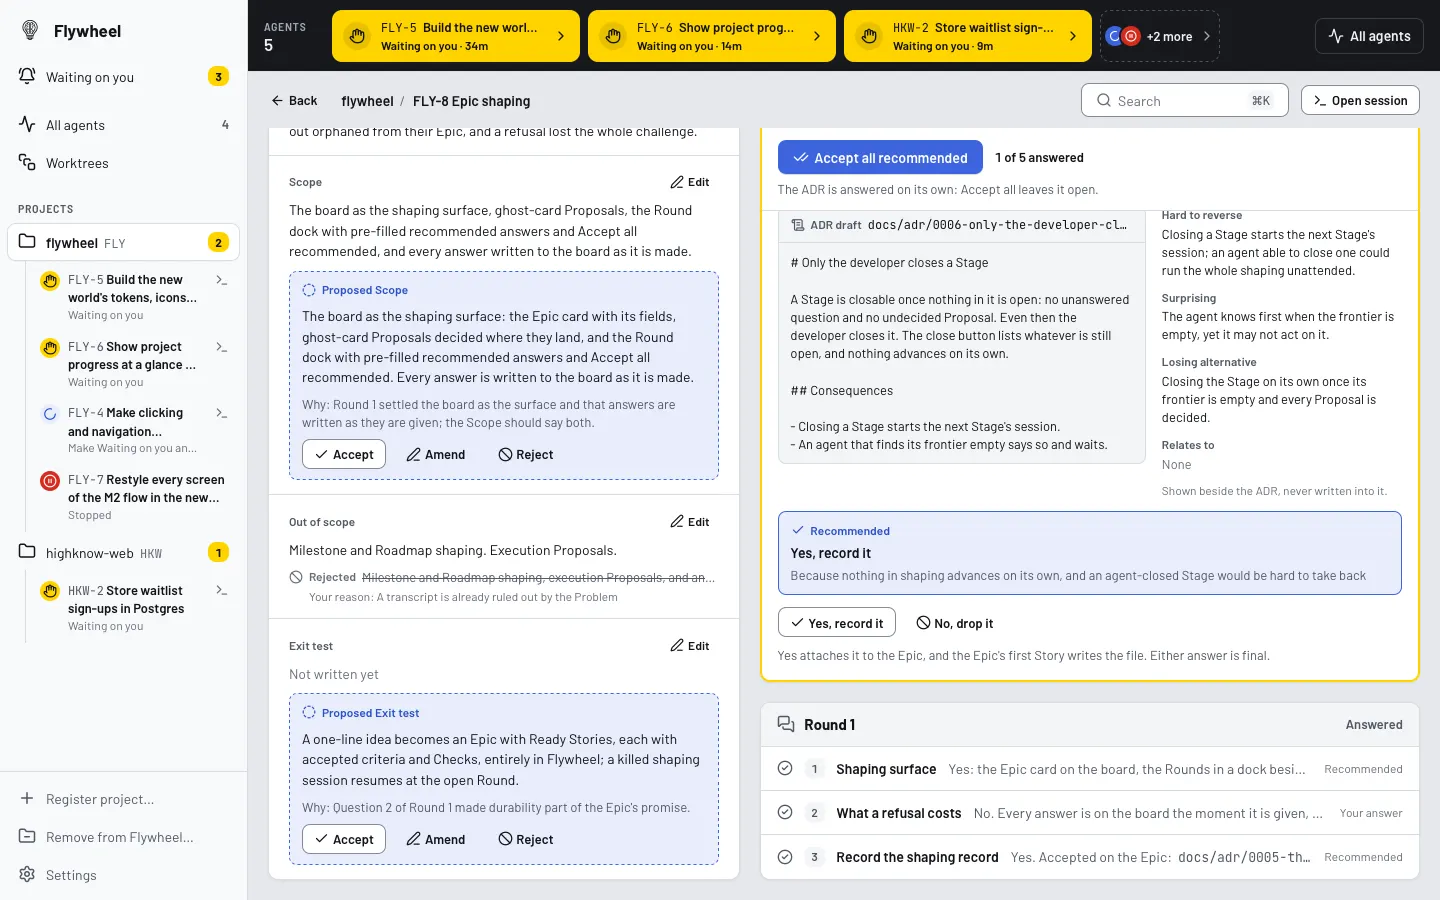
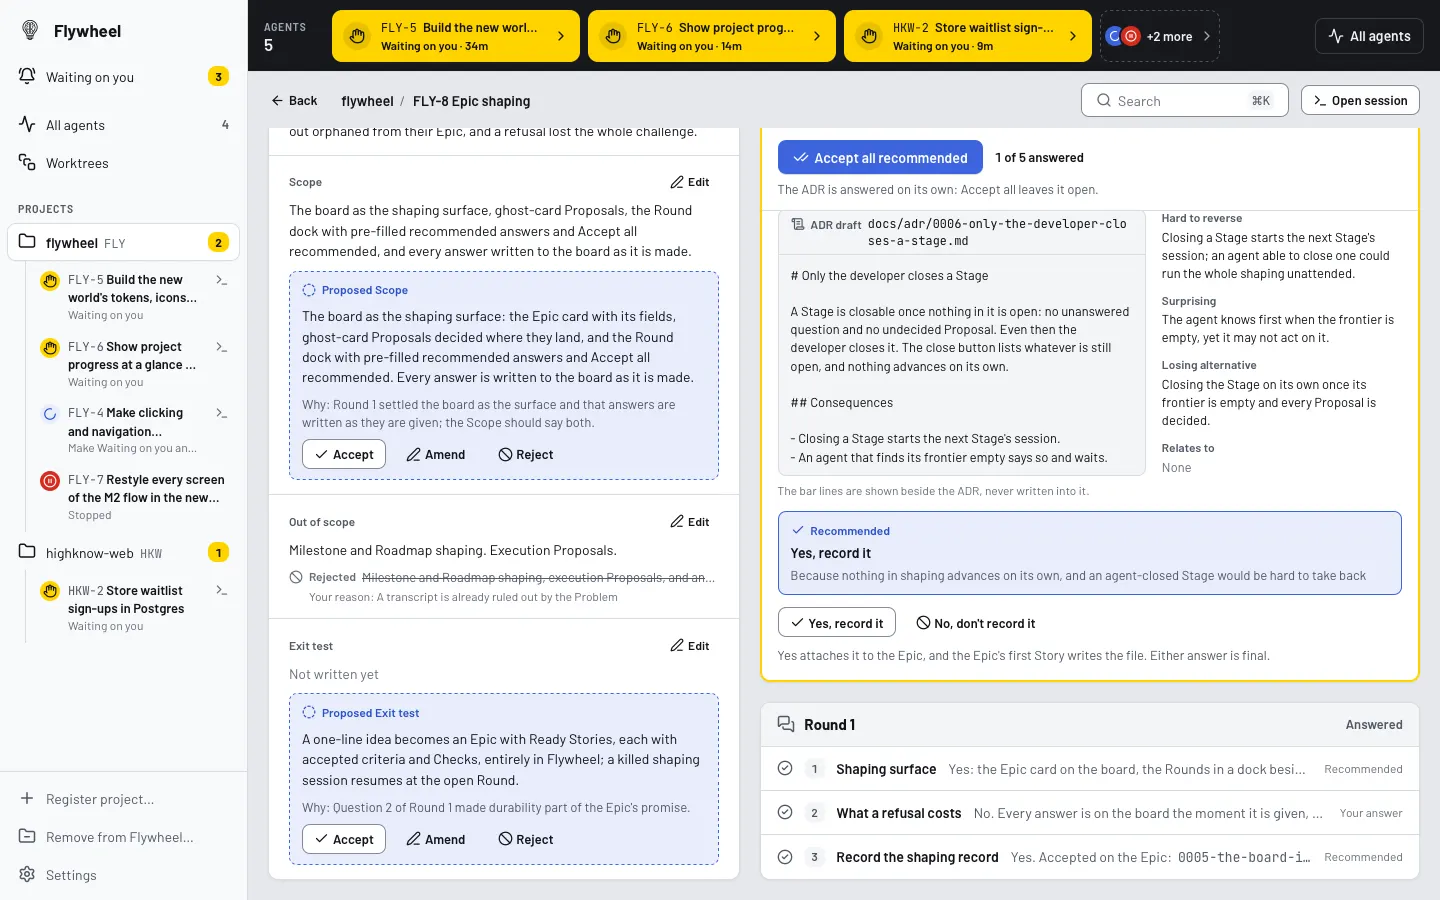
fix: the finish review's findings on the ADR card: No is "don't record it", never Drop; focus lands on the folded line; button names match their words; the draft is a named region; paths wrap; chips at meta size; Accept all says when only ADRs are left

diff --git a/packages/desktop/src/shaping/QuestionCard.tsx b/packages/desktop/src/shaping/QuestionCard.tsx
@@ -15,7 +15,7 @@
  * An ADR question (issue #129) is its own variant, `AdrQuestionCard`: the draft with its bar lines beside
  * it, answered Yes or No, and final once answered.
  */
-import { useId, useState, type FormEvent, type KeyboardEvent } from "react";
+import { useEffect, useId, useRef, useState, type FormEvent, type KeyboardEvent } from "react";
 import { Ban, Check, CircleCheck, FileText, PenLine, ScrollText, Send, X } from "lucide-react";
 import type { AdrDraftDto, RoundQuestionDto } from "../adapters/tauri";
 import { Button } from "@/components/ui/button";
@@ -253,8 +253,19 @@ const BAR_LINES: { key: keyof Pick<AdrDraftDto, "hardToReverse" | "surprising" |
  */
 function AdrQuestionCard({ question: q, open, onAnswer, adr }: QuestionCardProps & { adr: AdrDraftDto }) {
   const draftId = useId();
+  const questionId = useId();
   const [busy, setBusy] = useState<"Yes" | "No" | null>(null);
   const [error, setError] = useState<string | null>(null);
+  // Answering unmounts both buttons and the folded line holds no control, so the focus moves to that line
+  // rather than falling to the page.
+  const folded = useRef<HTMLDivElement>(null);
+  const [focusFolded, setFocusFolded] = useState(false);
+  useEffect(() => {
+    if (focusFolded && q.answer !== null) {
+      folded.current?.focus();
+      setFocusFolded(false);
+    }
+  }, [focusFolded, q.answer]);
   const label = `Question ${q.number}: ${q.title}`;
   const recommendsYes = q.recommendedAnswer.trim().toLowerCase().startsWith("yes");
 
@@ -264,6 +275,7 @@ function AdrQuestionCard({ question: q, open, onAnswer, adr }: QuestionCardProps
     setError(null);
     try {
       await onAnswer(q.id, word);
+      setFocusFolded(true);
     } catch (err) {
       setError(`Could not save your answer: ${reason(err)}`);
     } finally {
@@ -275,23 +287,30 @@ function AdrQuestionCard({ question: q, open, onAnswer, adr }: QuestionCardProps
     const yes = q.answer.trim().toLowerCase().startsWith("yes");
     return (
       <div
+        ref={folded}
+        tabIndex={-1}
         role="group"
         aria-label={label}
         data-answered="true"
         data-kind="adr"
-        className="flex min-h-11 min-w-0 items-center gap-3 border-b border-border px-4 py-2 last:border-b-0"
+        className="flex min-h-11 min-w-0 items-center gap-3 border-b border-border px-4 py-2 last:border-b-0 focus-visible:outline-2 focus-visible:-outline-offset-2 focus-visible:outline-ring"
       >
         <CircleCheck aria-hidden="true" className="size-4 shrink-0 text-muted-foreground" />
         <NumberChip number={q.number} answered />
         <span className="max-w-[40%] shrink-0 truncate text-body font-semibold" title={q.title}>
           {q.title}
         </span>
-        <span className="flex min-w-0 flex-1 items-baseline gap-1.5 text-body text-muted-foreground">
-          <span className="shrink-0">{yes ? "Yes. Accepted on the Epic:" : "No. Dropped:"}</span>
-          <span className="min-w-0 truncate font-mono text-small" title={adr.path}>
-            {yes ? adr.path : "no ADR is written"}
+        {yes ? (
+          <span className="flex min-w-0 flex-1 items-baseline gap-1.5 text-body text-muted-foreground">
+            <span className="shrink-0">Yes. Accepted on the Epic:</span>
+            <span className="min-w-0 truncate font-mono text-small" title={adr.path}>
+              <span className="sr-only">{adr.path.slice(0, adr.path.length - fileName(adr.path).length)}</span>
+              {fileName(adr.path)}
+            </span>
           </span>
-        </span>
+        ) : (
+          <span className="min-w-0 flex-1 truncate text-body text-muted-foreground">No. Not recorded: no ADR is written</span>
+        )}
         <span className="shrink-0 text-meta text-subtle-foreground">
           {q.answeredWith === "own" ? "Your answer" : "Recommended"}
         </span>
@@ -307,10 +326,10 @@ function AdrQuestionCard({ question: q, open, onAnswer, adr }: QuestionCardProps
         size="sm"
         disabled={!open || busy !== null}
         onClick={() => void answer(word)}
-        aria-label={word === "Yes" ? `Yes: record the ADR in question ${q.number}` : `No: drop the ADR in question ${q.number}`}
+        aria-describedby={questionId}
       >
         {word === "Yes" ? <Check aria-hidden="true" /> : <Ban aria-hidden="true" />}
-        {busy === word ? "Saving…" : word === "Yes" ? "Yes, record it" : "No, drop it"}
+        {busy === word ? "Saving…" : word === "Yes" ? "Yes, record it" : "No, don't record it"}
       </Button>
     );
   };
@@ -328,7 +347,9 @@ function AdrQuestionCard({ question: q, open, onAnswer, adr }: QuestionCardProps
           <span className="mt-px flex">
             <NumberChip number={q.number} answered={false} />
           </span>
-          <span className="min-w-0 break-words">{q.question}</span>
+          <span id={questionId} className="min-w-0 break-words">
+            {q.question}
+          </span>
         </p>
         <p className="m-0 flex items-start gap-1.5 pl-7 text-small text-subtle-foreground">
           <FileText aria-hidden="true" className="mt-0.5 size-3.5 shrink-0" />
@@ -339,15 +360,16 @@ function AdrQuestionCard({ question: q, open, onAnswer, adr }: QuestionCardProps
 
       <div className="grid min-w-0 grid-cols-1 gap-x-4 gap-y-3 @xl:grid-cols-[minmax(0,1fr)_minmax(0,15rem)]">
         <figure aria-labelledby={draftId} className="m-0 flex min-w-0 flex-col self-start overflow-clip rounded-md border border-border bg-secondary">
-          <figcaption className="flex min-h-9 min-w-0 items-center gap-1.5 border-b border-border px-3 py-1.5 text-meta text-muted-foreground">
-            <ScrollText aria-hidden="true" className="size-3.5 shrink-0" />
+          <figcaption className="flex min-h-9 min-w-0 items-start gap-1.5 border-b border-border px-3 py-1.5 text-meta text-muted-foreground">
+            <ScrollText aria-hidden="true" className="mt-px size-3.5 shrink-0" />
             <span className="shrink-0 font-semibold">ADR draft</span>
-            <span id={draftId} className="min-w-0 truncate font-mono text-foreground" title={adr.path}>
+            <span id={draftId} className="min-w-0 font-mono break-all text-foreground">
               {adr.path}
             </span>
           </figcaption>
           {/* A long draft scrolls in place, so the bar lines and the answer stay in reach. */}
           <div
+            role="region"
             tabIndex={0}
             aria-label={`The draft of ${adr.path}`}
             className="max-h-72 min-w-0 overflow-auto px-3 py-2.5 text-small whitespace-pre-wrap break-words text-foreground focus-visible:outline-2 focus-visible:-outline-offset-2 focus-visible:outline-ring"
@@ -364,9 +386,9 @@ function AdrQuestionCard({ question: q, open, onAnswer, adr }: QuestionCardProps
               </span>
             </li>
           ))}
-          <li className="text-meta text-subtle-foreground">Shown beside the ADR, never written into it.</li>
         </ul>
       </div>
+      <p className="-mt-1.5 mb-0 text-meta text-subtle-foreground">The bar lines are shown beside the ADR, never written into it.</p>
 
       <div className="flex min-w-0 flex-col gap-1 rounded-md border border-primary bg-running-muted px-3 py-2.5">
         <span className="flex items-center gap-1.5 text-meta font-semibold text-running">
@@ -374,7 +396,7 @@ function AdrQuestionCard({ question: q, open, onAnswer, adr }: QuestionCardProps
           Recommended
         </span>
         <p className="m-0 text-body font-semibold break-words text-foreground">
-          {recommendsYes ? "Yes, record it" : "No, drop it"}
+          {recommendsYes ? "Yes, record it" : "No, don't record it"}
         </p>
         <p className="m-0 text-small break-words text-muted-foreground">Because {lowerFirst(q.because)}</p>
       </div>
@@ -392,6 +414,11 @@ function AdrQuestionCard({ question: q, open, onAnswer, adr }: QuestionCardProps
       )}
     </div>
   );
+}
+
+/** An ADR's file name, the last segment of its path. */
+function fileName(path: string): string {
+  return path.split("/").pop() || path;
 }
 
 /** "Because" reads as one sentence: the agent's reason keeps its words, its first letter lowered unless it

diff --git a/packages/desktop/src/shaping/__tests__/round-dock.test.tsx b/packages/desktop/src/shaping/__tests__/round-dock.test.tsx
@@ -330,9 +330,9 @@ describe("an ADR offered inside the Round (issue #129)", () => {
     epicShapingRounds.mockResolvedValue(shaping([round([question(1), adrQuestion(2)])]));
     renderView();
     const adr = await card(2);
-    fireEvent.click(within(adr).getByRole("button", { name: "Yes: record the ADR in question 2" }));
+    fireEvent.click(within(adr).getByRole("button", { name: "Yes, record it" }));
     await waitFor(() => expect(roundAnswer).toHaveBeenCalledWith("q2", "Yes"));
-    fireEvent.click(within(adr).getByRole("button", { name: "No: drop the ADR in question 2" }));
+    fireEvent.click(within(adr).getByRole("button", { name: "No, don't record it" }));
     await waitFor(() => expect(roundAnswer).toHaveBeenCalledWith("q2", "No"));
   });
 
@@ -343,6 +343,14 @@ describe("an ADR offered inside the Round (issue #129)", () => {
     expect(adr.getAttribute("data-answered")).toBe("true");
     expect(within(adr).getByText(/Accepted on the Epic/)).toBeTruthy();
     expect(within(adr).queryByRole("button")).toBeNull();
+  });
+
+  it("an ADR answered No folds to a line that says no ADR is written", async () => {
+    epicShapingRounds.mockResolvedValue(shaping([round([question(1), adrQuestion(2, { answer: "No", with: "own" })])]));
+    renderView();
+    const adr = await card(2);
+    expect(within(adr).getByText("No. Not recorded: no ADR is written")).toBeTruthy();
+    expect(within(adr).getByText("Your answer")).toBeTruthy();
   });
 
   it("Accept all recommended leaves the ADR questions to their own Yes or No, and says so", async () => {
@@ -361,6 +369,7 @@ describe("an ADR offered inside the Round (issue #129)", () => {
     renderView();
     const dock = await screen.findByRole("region", { name: /Round 1/ });
     expect((within(dock).getByRole("button", { name: /Accept all recommended/ }) as HTMLButtonElement).disabled).toBe(true);
+    expect(within(dock).getByText("Only the ADR is left: answer it Yes or No.")).toBeTruthy();
   });
 });
 

diff --git a/packages/desktop/src/shaping/EpicShapingView.tsx b/packages/desktop/src/shaping/EpicShapingView.tsx
@@ -170,11 +170,11 @@ function KnowledgeChips({ chips }: { chips: KnowledgeChip[] }) {
           <Badge
             variant="outline"
             title={chip.pending ? `${chip.title}, accepted on this Epic, not written yet` : chip.title}
-            className={cn("max-w-full min-w-0 font-normal", chip.pending && "border-dashed")}
+            className={cn("max-w-full min-w-0 text-meta font-normal", chip.pending && "border-dashed")}
           >
             {chip.kind === "adr" ? <ScrollText aria-hidden="true" /> : <BookA aria-hidden="true" />}
-            <span className="sr-only">{chip.kind === "adr" ? "ADR " : "Glossary term "}</span>
-            <span className={cn("min-w-0 truncate", chip.kind === "adr" && "font-mono text-meta")}>{chip.name}</span>
+            <span className="sr-only">{chip.kind === "adr" ? `ADR ${chip.title.slice(0, chip.title.length - chip.name.length)}` : "Glossary term "}</span>
+            <span className={cn("min-w-0 truncate", chip.kind === "adr" && "font-mono")}>{chip.name}</span>
             {chip.pending && (
               <span className="shrink-0 text-meta text-muted-foreground">
                 {chip.kind === "adr" ? "· not in the repo yet" : "· not in GLOSSARY.md yet"}

diff --git a/packages/desktop/src/shaping/RoundDock.tsx b/packages/desktop/src/shaping/RoundDock.tsx
@@ -203,11 +203,15 @@ function RoundCard({
             {answered} of {total} answered
           </span>
           <span className="min-w-0 text-small text-muted-foreground">
-            {openAdrs > 0
+            {openAdrs > 0 && openPlain === 0
               ? openAdrs === 1
-                ? "The ADR is answered on its own: Accept all leaves it open."
-                : `Each ADR is answered on its own: Accept all leaves these ${openAdrs} open.`
-              : waiting
+                ? "Only the ADR is left: answer it Yes or No."
+                : `Only the ${openAdrs} ADRs are left: answer each Yes or No.`
+              : openAdrs > 0
+                ? openAdrs === 1
+                  ? "The ADR is answered on its own: Accept all leaves it open."
+                  : `Each ADR is answered on its own: Accept all leaves these ${openAdrs} open.`
+                : waiting
                 ? "The agent goes on once every question is answered."
                 : "Every answer is saved as you give it."}
           </span>

diff --git a/DESIGN.md b/DESIGN.md
@@ -370,9 +370,9 @@ The Epic's shaping view (`shaping/EpicShapingView.tsx`, #123) is the Epic card b
 
 A spec change an agent proposes (`shaping/GhostCard.tsx`, #125) is a ghost of the field it would rewrite, drawn under that field's text on the Epic card, never in an inbox: a 1px dashed primary edge on the running tint (the recommended answer's solid edge, made provisional), "Proposed Scope" in running ink behind `circle-dashed`, the agent's whole new text at the field's 68ch measure, its "Why:" line in secondary ink, then Accept (outline), Amend (ghost) and Reject (ghost). Amend opens a textarea on the proposed text with Accept edit (outline), Cancel and a ⌘↩ hint: editing and accepting are one act. Reject opens a one-line "Why not? (optional)" field beside Reject (outline) and Cancel. A rejected spec change is decided, so it loses the dashed edge and shrinks to two plain lines with no ground: `ban`, "Rejected" and the text struck through in secondary ink, then "Your reason: …" in meta ink. Reject always wears `ban`; `x` only ever means Cancel. Amend keeps the agent's "Why:" line above the textarea, and Cancel returns the focus to the button that opened the mode; once decided, the focus lands on the field's Edit. No blue fill and no yellow: a pending Proposal never holds the agent, so it is never Waiting on you.
 
-An ADR offered inside the Round (`QuestionCard.tsx`'s ADR variant, #129) reads like any question (number chip, question, grounding), then the draft beside its bar lines, side by side once the card is 36rem wide (a container query) and stacked below that. The draft is an inset panel (`secondary` ground, 1px edge, 8px corners, top-aligned): a caption of `scroll-text`, "ADR draft" and the path in code face, then the file's text as it will be written, in the reading face with its line breaks kept, scrolling in place past 18rem so the answer stays in reach. Beside it, the four bar lines as a list: each label meta-size semibold in secondary ink ("Hard to reverse", "Surprising", "Losing alternative", "Relates to"), its line at small size in ink ("None" in meta ink), and a closing meta line, "Shown beside the ADR, never written into it." The recommended answer keeps the running-tint box and reads "Yes, record it" or "No, drop it". The two answers are the two buttons, Yes (`check`) then No (`ban`), the recommended one outlined and the other ghost, with a hint that Yes attaches the ADR to the Epic and that either answer is final. Answered, it folds to the 44px line with no Change: "Yes. Accepted on the Epic:" and the path in code face, or "No. Dropped: no ADR is written". Accept all recommended leaves an ADR open, since its Yes decides a Proposal: the bar's hint says so, and the button is off once only ADRs are left open.
+An ADR offered inside the Round (`QuestionCard.tsx`'s ADR variant, #129) reads like any question (number chip, question, grounding), then the draft beside its bar lines, side by side once the card is 36rem wide (a container query) and stacked below that. The draft is an inset panel (`secondary` ground, 1px edge, 8px corners, top-aligned): a caption of `scroll-text`, "ADR draft" and the path in code face, then the file's text as it will be written, in the reading face with its line breaks kept, scrolling in place past 18rem so the answer stays in reach. Beside it, the four bar lines as a list: each label meta-size semibold in secondary ink ("Hard to reverse", "Surprising", "Losing alternative", "Relates to"), its line at small size in ink ("None" in meta ink), and then, under both, a meta line: "The bar lines are shown beside the ADR, never written into it." The caption's path wraps rather than truncating. The recommended answer keeps the running-tint box and reads "Yes, record it" or "No, don't record it" (never "Drop": that word is a Story's end state). The two answers are the two buttons, Yes (`check`) then No (`ban`), the recommended one outlined and the other ghost, with a hint that Yes attaches the ADR to the Epic and that either answer is final. Each button is named by its visible words and described by the question. Answered, it folds to the 44px line with no Change, and the focus moves to that line: "Yes. Accepted on the Epic:" and the file name in code face, or "No. Not recorded: no ADR is written" in the reading face. Accept all recommended leaves an ADR open, since its Yes decides a Proposal: the bar's hint says so, and once only ADRs are left open the button is off and the hint reads "Only the ADR is left: answer it Yes or No."
 
-The Epic card's ADR and glossary chips (#129) sit in its title block under the Stage line, only when there is one: outline badges at meta size, `scroll-text` and the ADR's file name in code face, or `book-a` and the glossary term. An ADR linked to the Epic has a solid edge. One accepted on the Epic that no Story has written yet has a dashed edge, the ghost's provisional mark, and "· not in the repo yet" (or "· not in GLOSSARY.md yet") in secondary ink. The full path is in the tooltip.
+The Epic card's ADR and glossary chips (#129) sit in its title block under the Stage line, only when there is one: outline badges at meta size (the term and the file name alike), `scroll-text` and the ADR's file name in code face, or `book-a` and the glossary term. An ADR linked to the Epic has a solid edge. One accepted on the Epic that no Story has written yet has a dashed edge, the ghost's provisional mark, and "· not in the repo yet" (or "· not in GLOSSARY.md yet") in secondary ink. The full path is in the tooltip and in the chip's accessible name.
 
 ### Feed Rows
 A tool call is one line (`session/FeedRow.tsx`, worded by `session/toolVerbs.ts`): the disclosure chevron, the kind's Lucide icon, a plain verb in a 108px semibold column (Read, Edited, Wrote, Ran, Searched; board tools by their meaning: Added Task, Finished Task, Ran Checks, Handed off, Posted Round, and Resumed Round n for `round_wait`, each of the two reading "Waiting on your answers" while it is held), what it acted on (code face for paths and commands, reading face for Task titles), then the metrics column on the right in meta ink, tabular: lines, `+added −removed`, "done" in ink for a clean command or "exit n" for a failed one, Check results, and the duration. A failed command is neutral ink beside `circle-x`; only a failed Check is red. Search targets are quoted, with the place searched ("“Dropped” in GLOSSARY.md"); a tool Flywheel has no verb for reads "Used" and its name in words. A call in flight reads in the progressive ("Running"), the loader leading its clock in running ink. No raw `mcp__` tool name is printed anywhere outside View raw.
